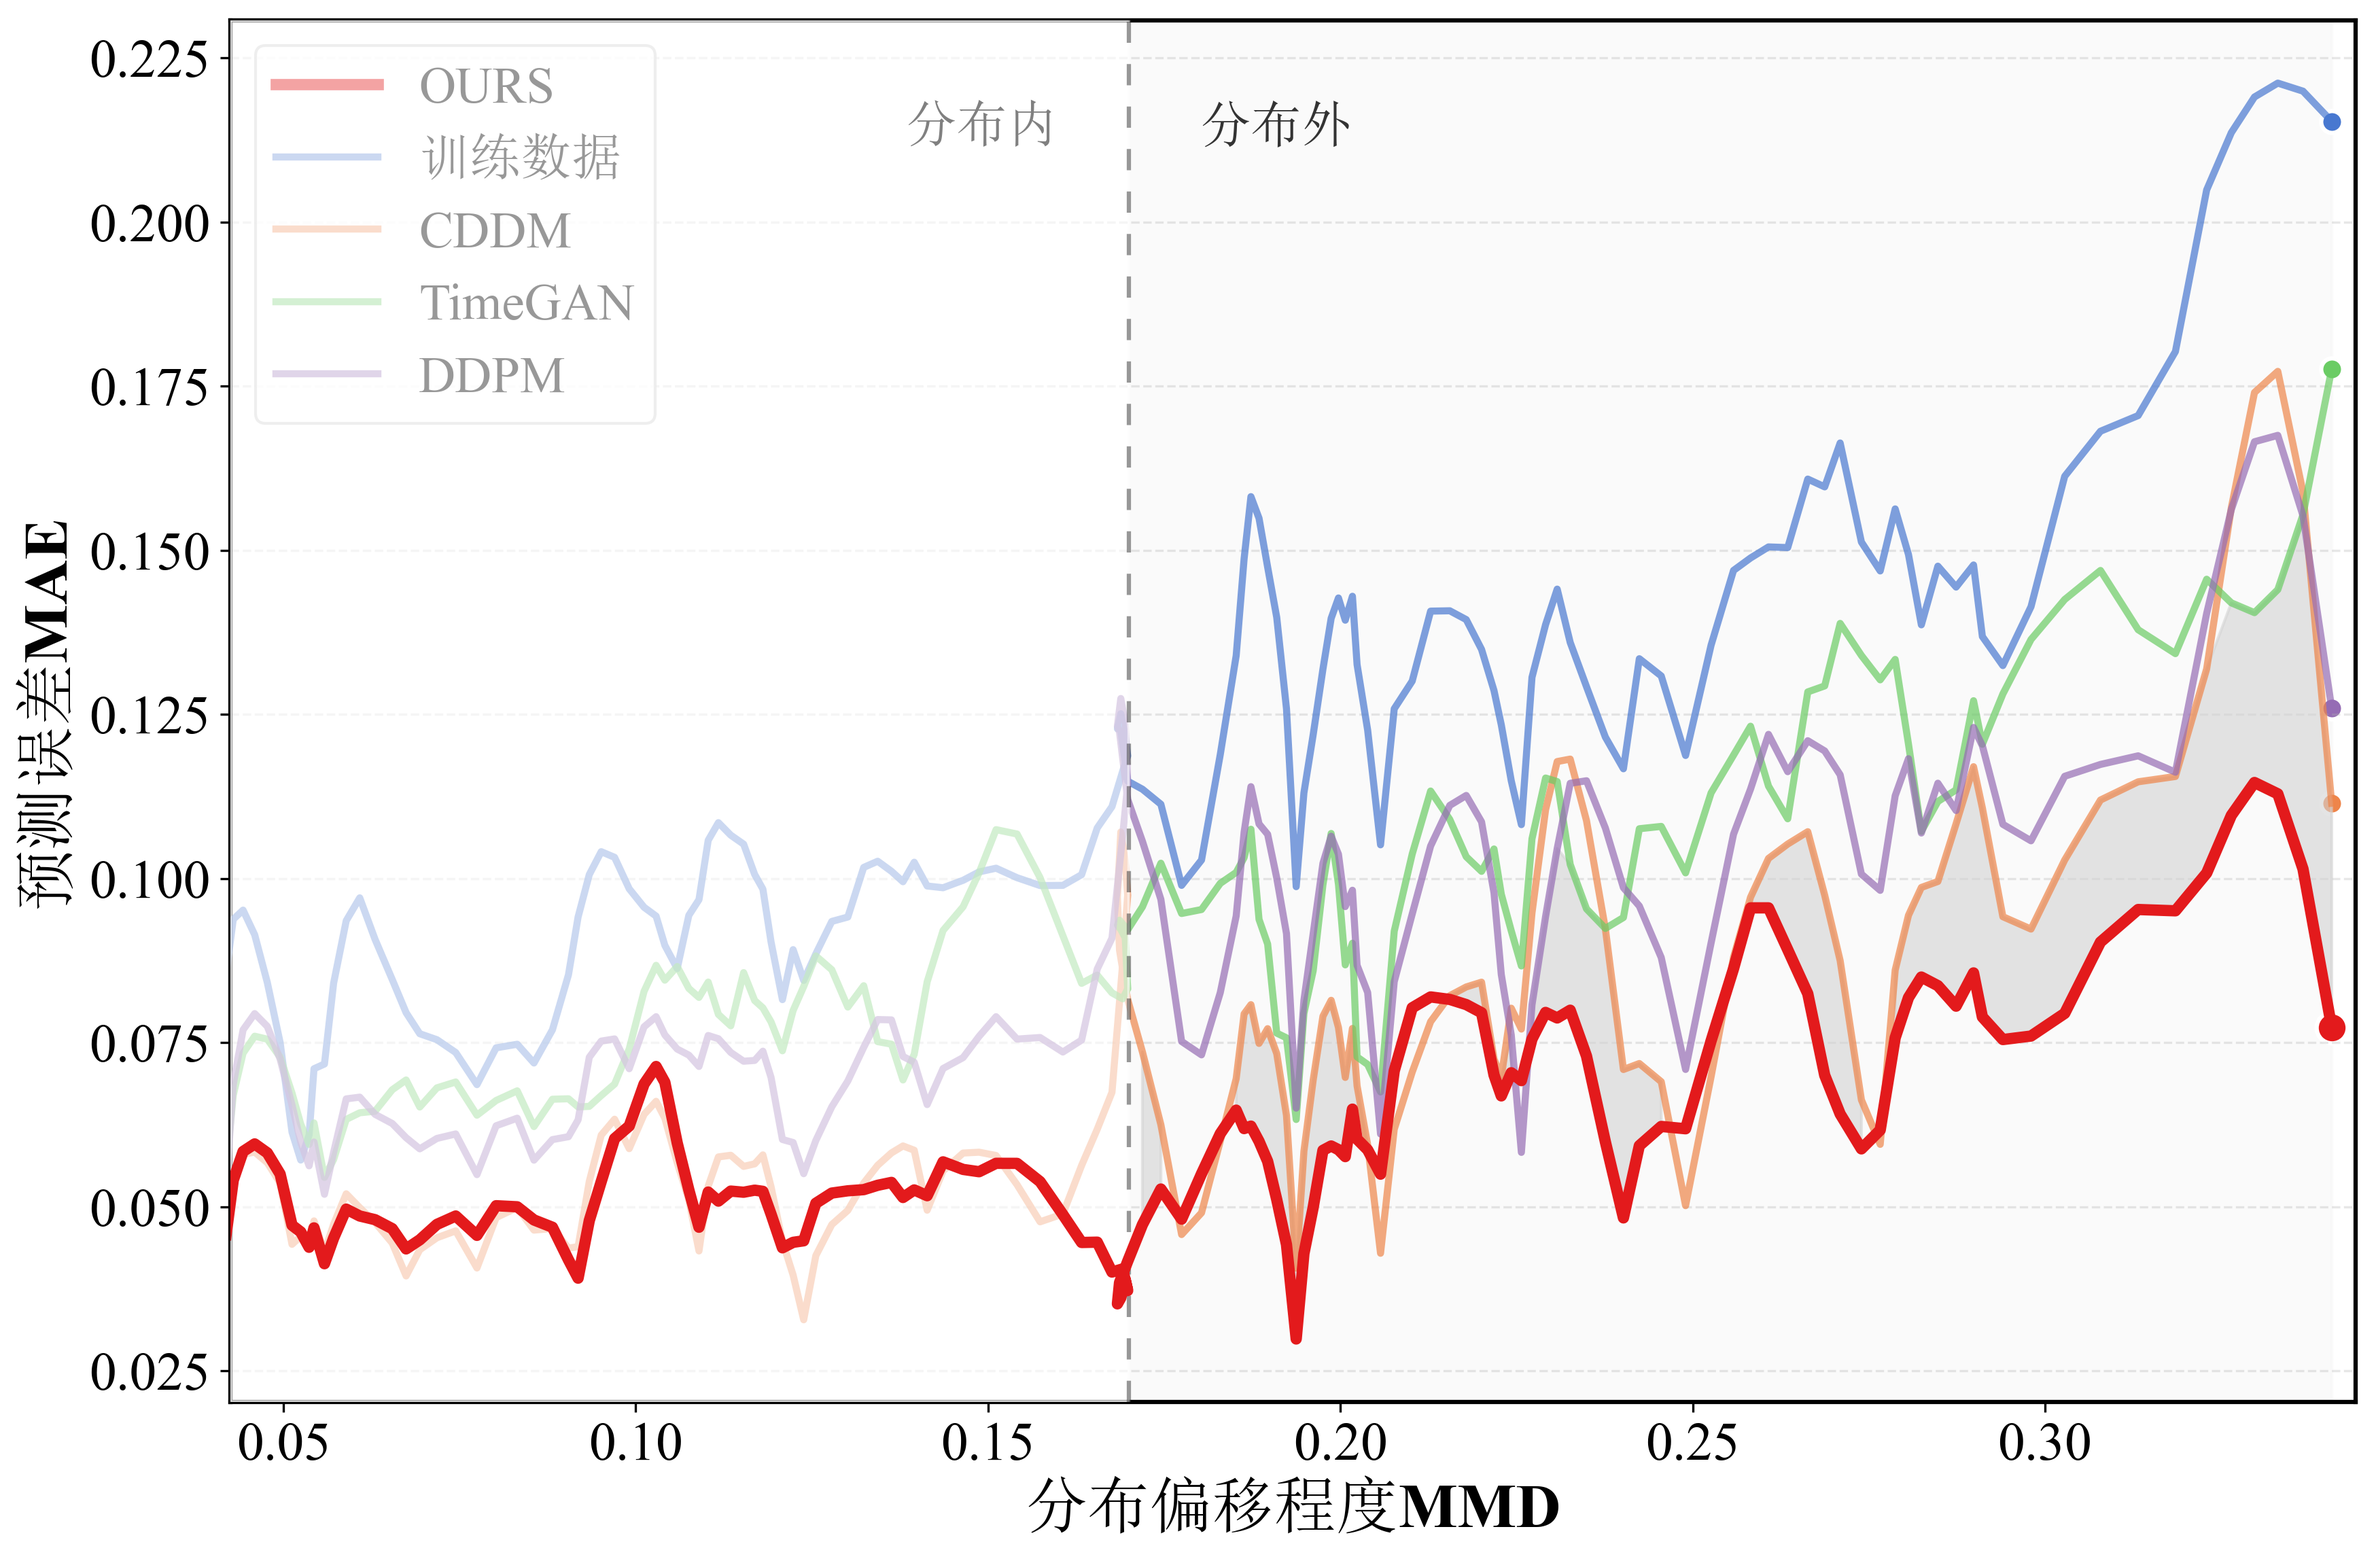
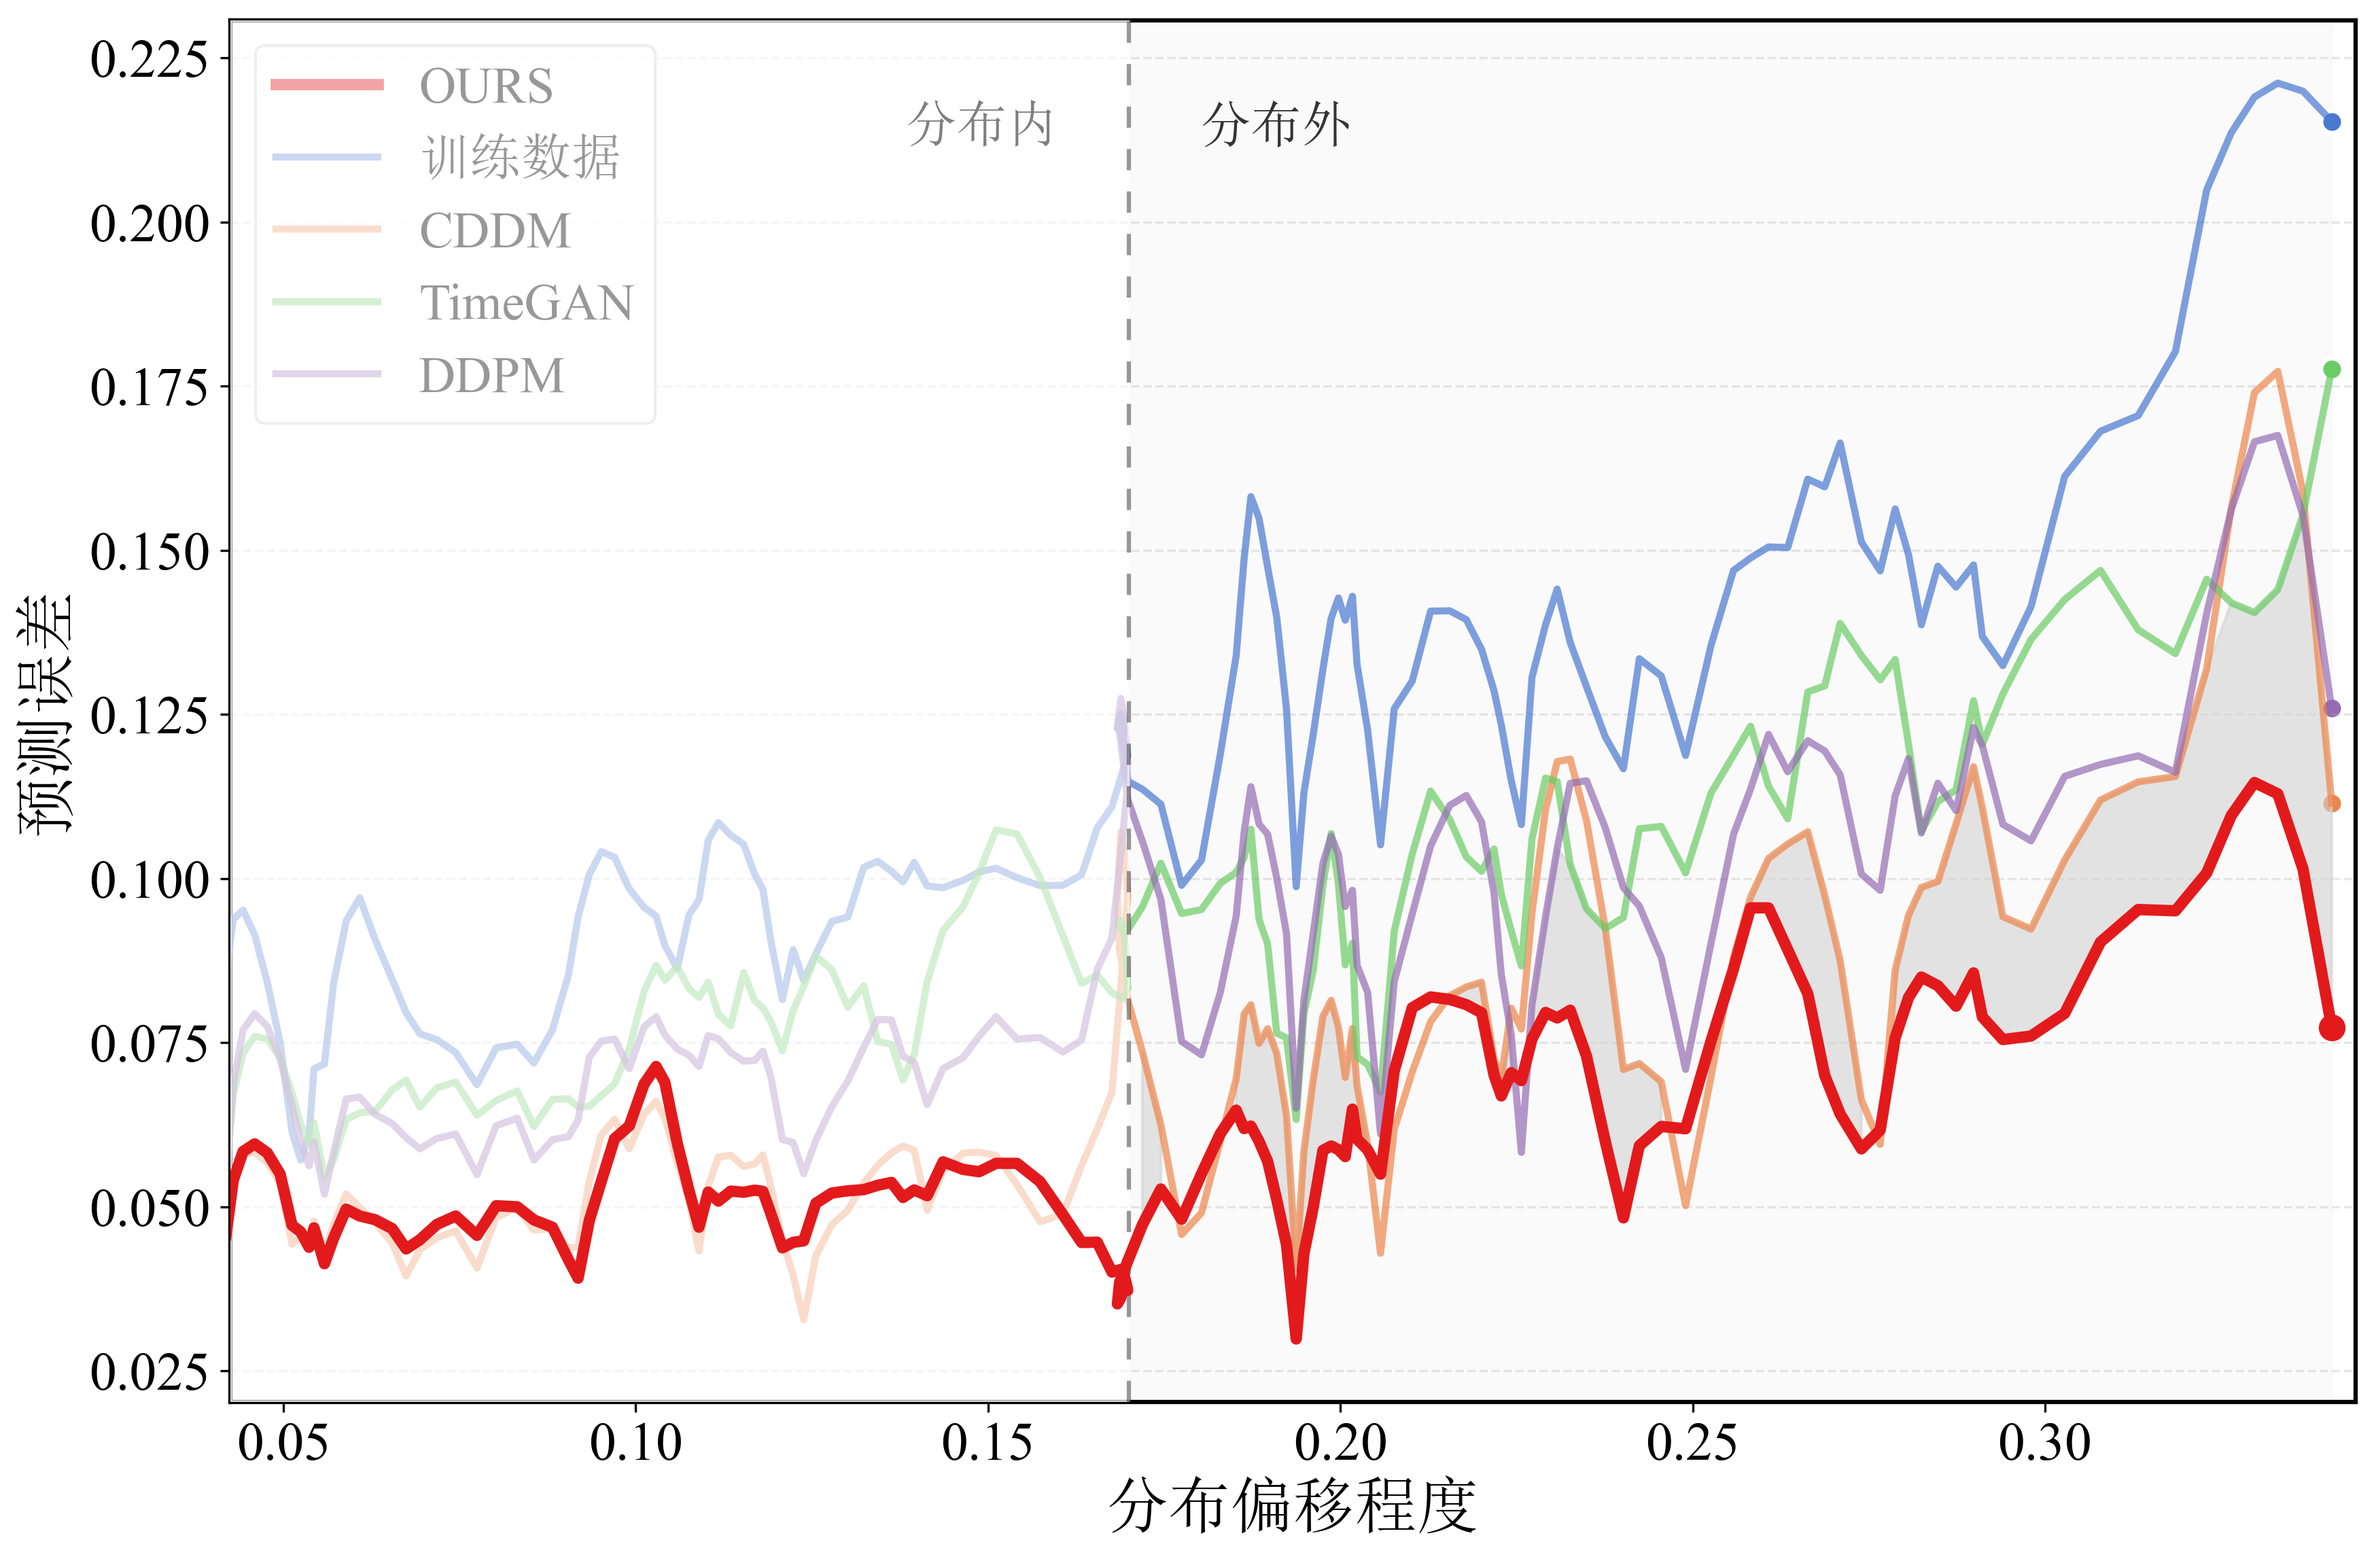
全部修改图片，答辩后

Changed region(s): [[0.4365, 0.9273, 0.6547, 0.9891], [0.0, 0.34, 0.0312, 0.5873]]

diff --git a/similar/cluster_and_train/plot_beauti_2_CH.py b/similar/cluster_and_train/plot_beauti_2_CH.py
@@ -162,8 +162,8 @@ ax.axvline(boundary_x,
            alpha=0.4,
            zorder=7)
 
-ax.set_xlabel('分布偏移程度MMD',fontsize=22, weight='bold')
-ax.set_ylabel('预测误差MAE',fontsize=22, weight='bold')
+ax.set_xlabel('分布偏移程度',fontsize=22, weight='bold')
+ax.set_ylabel('预测误差',fontsize=22, weight='bold')
 #ax.set_title('模型泛化性能对比', fontweight='bold')
 
 # 限制横轴范围，避免右侧空白
